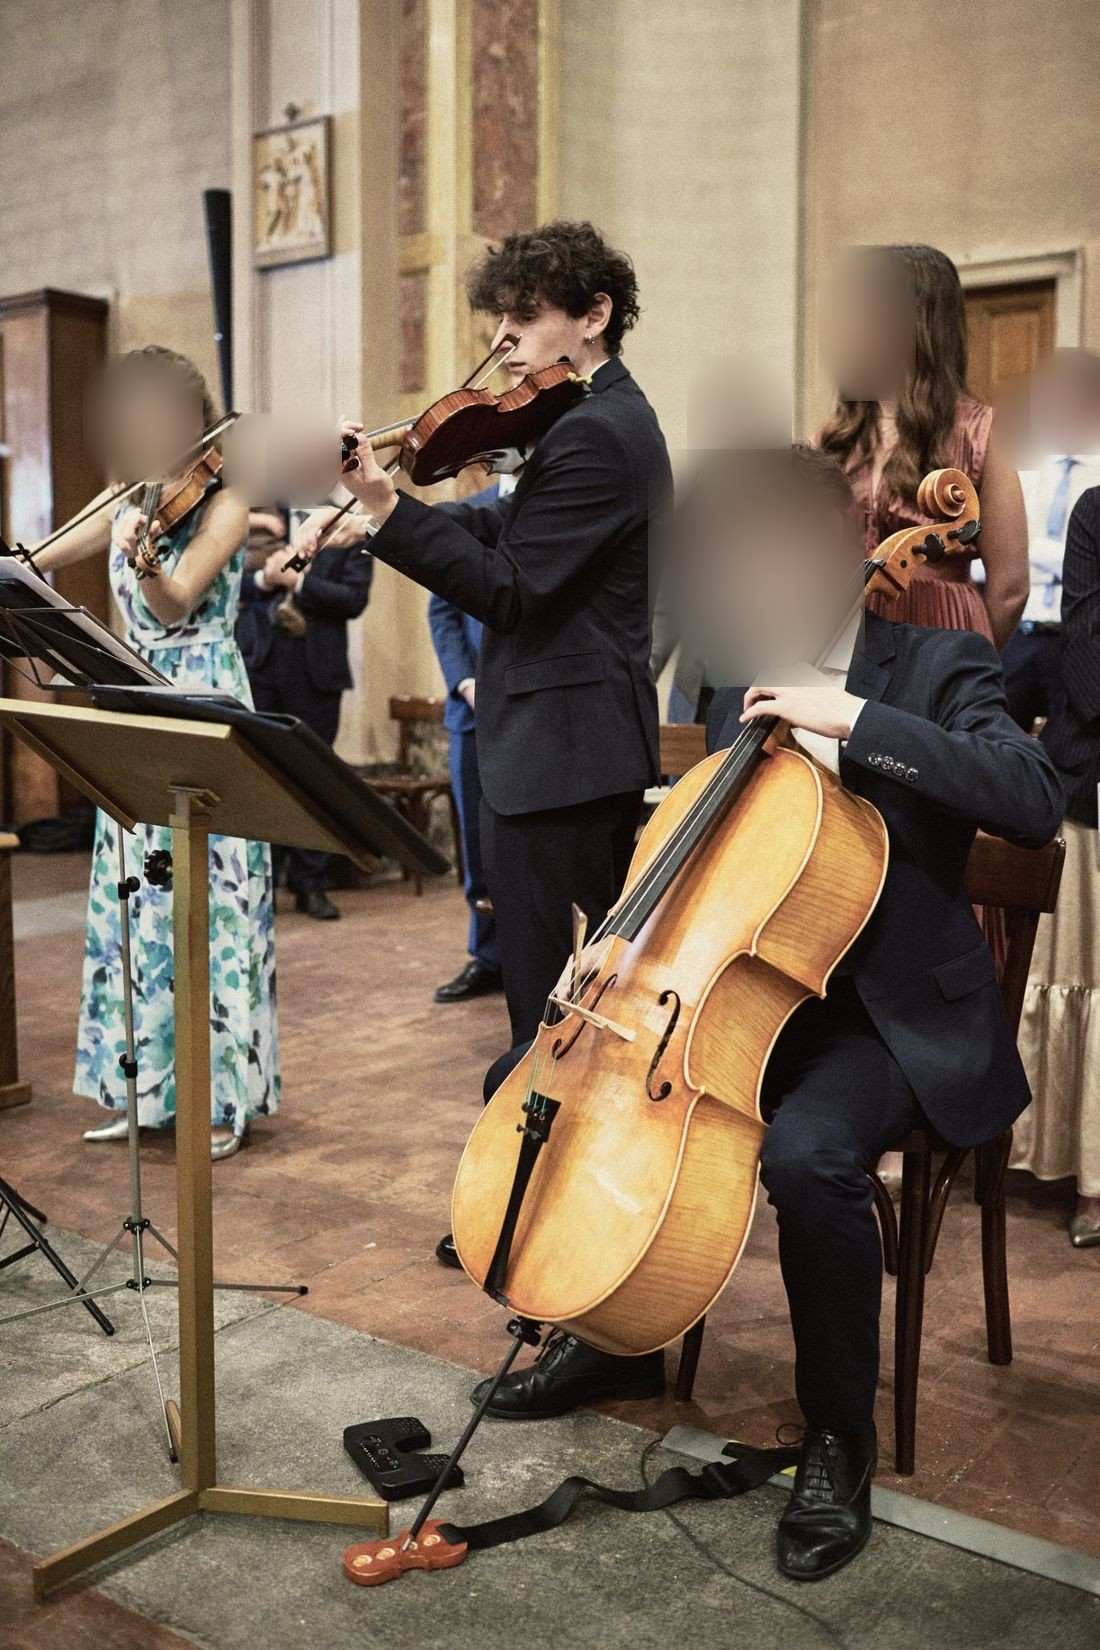
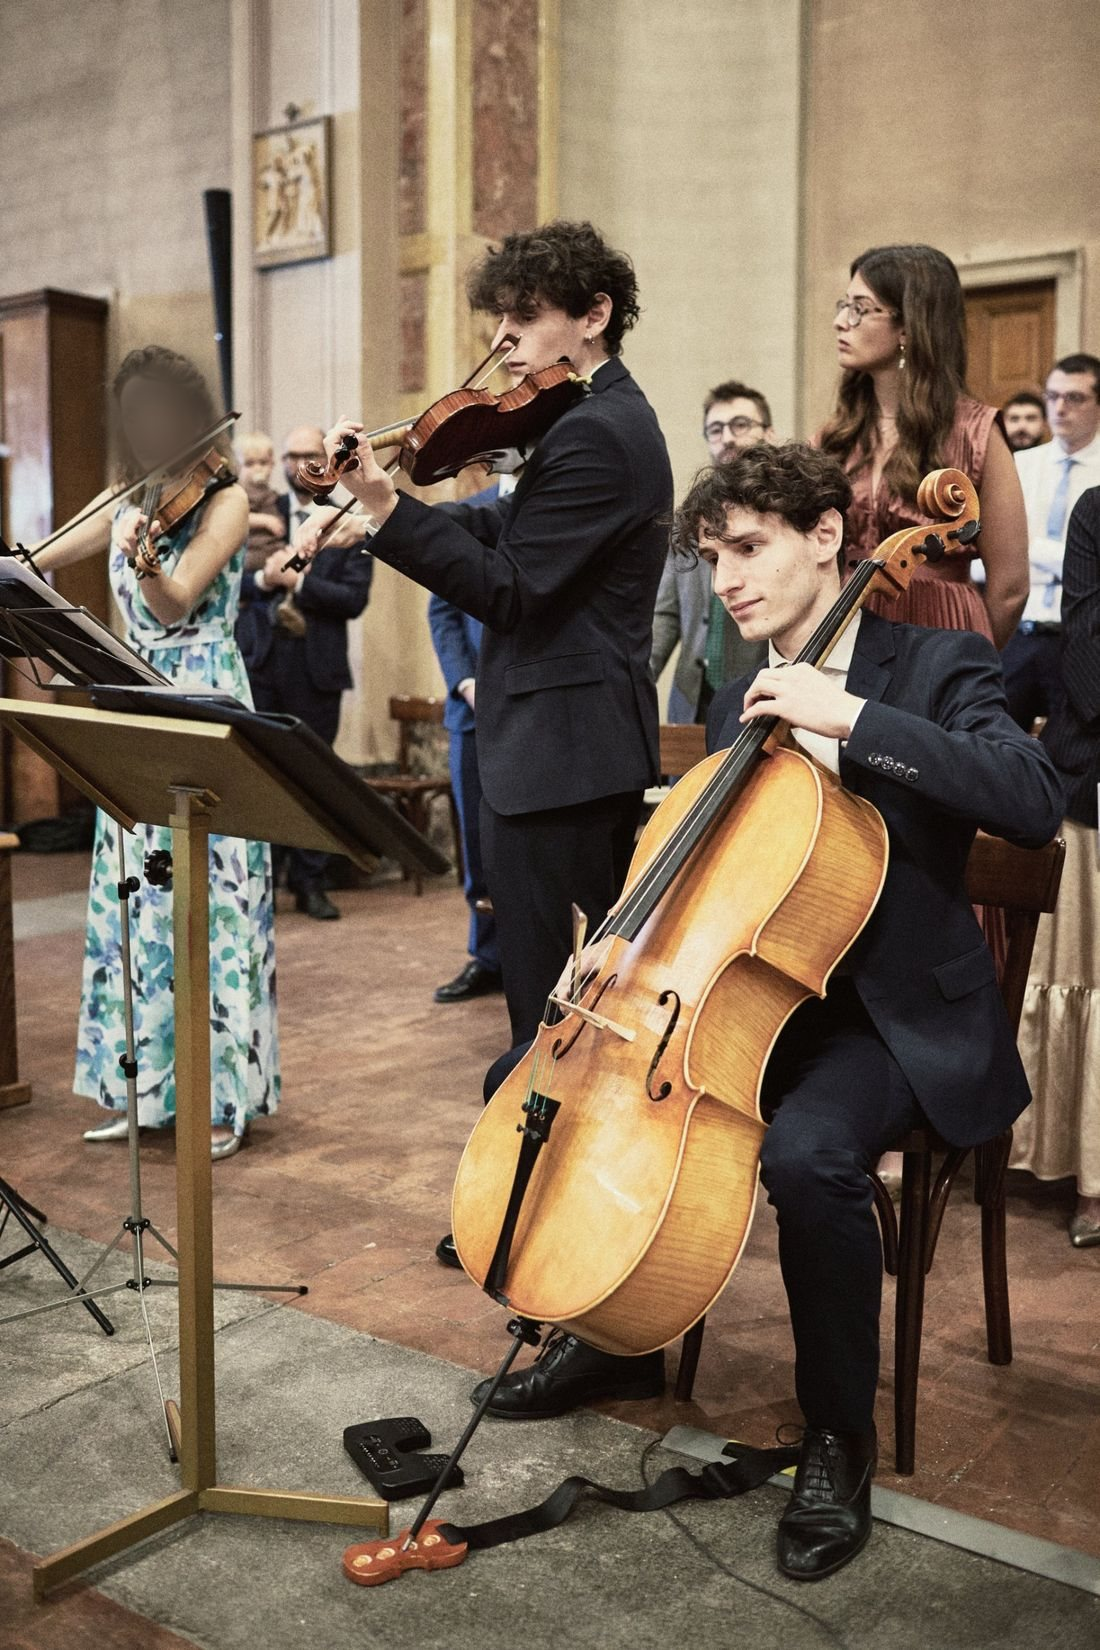
Add files via upload

diff --git a/index.html b/index.html
@@ -11,13 +11,17 @@
 <meta property="og:type" content="website">
 <meta property="og:locale" content="it_IT">
 <meta property="og:url" content="https://giabba2002.github.io/sito-violino/">
-<meta property="og:image" content="https://giabba2002.github.io/sito-violino/foto/og-violinista.jpg">
+<meta property="og:image" content="https://giabba2002.github.io/sito-violino/foto/og-whatsapp.jpg">
+<meta property="og:image:type" content="image/jpeg">
+<meta property="og:image:alt" content="Giovanni Ferrando suona il violino durante una cerimonia di matrimonio">
 <meta property="og:image:width" content="1200">
 <meta property="og:image:height" content="628">
 <meta name="twitter:card" content="summary_large_image">
 <link rel="canonical" href="https://giabba2002.github.io/sito-violino/">
 <!-- Se in futuro usi un dominio tuo, sostituisci "https://giabba2002.github.io/sito-violino/" qui sopra e nel blocco "url" più sotto -->
 <link rel="icon" href="favicon.svg" type="image/svg+xml">
+<link rel="icon" href="favicon-32.png" sizes="32x32" type="image/png">
+<link rel="apple-touch-icon" href="apple-touch-icon.png">
 
 <script>document.documentElement.className+=' js';</script>
 
